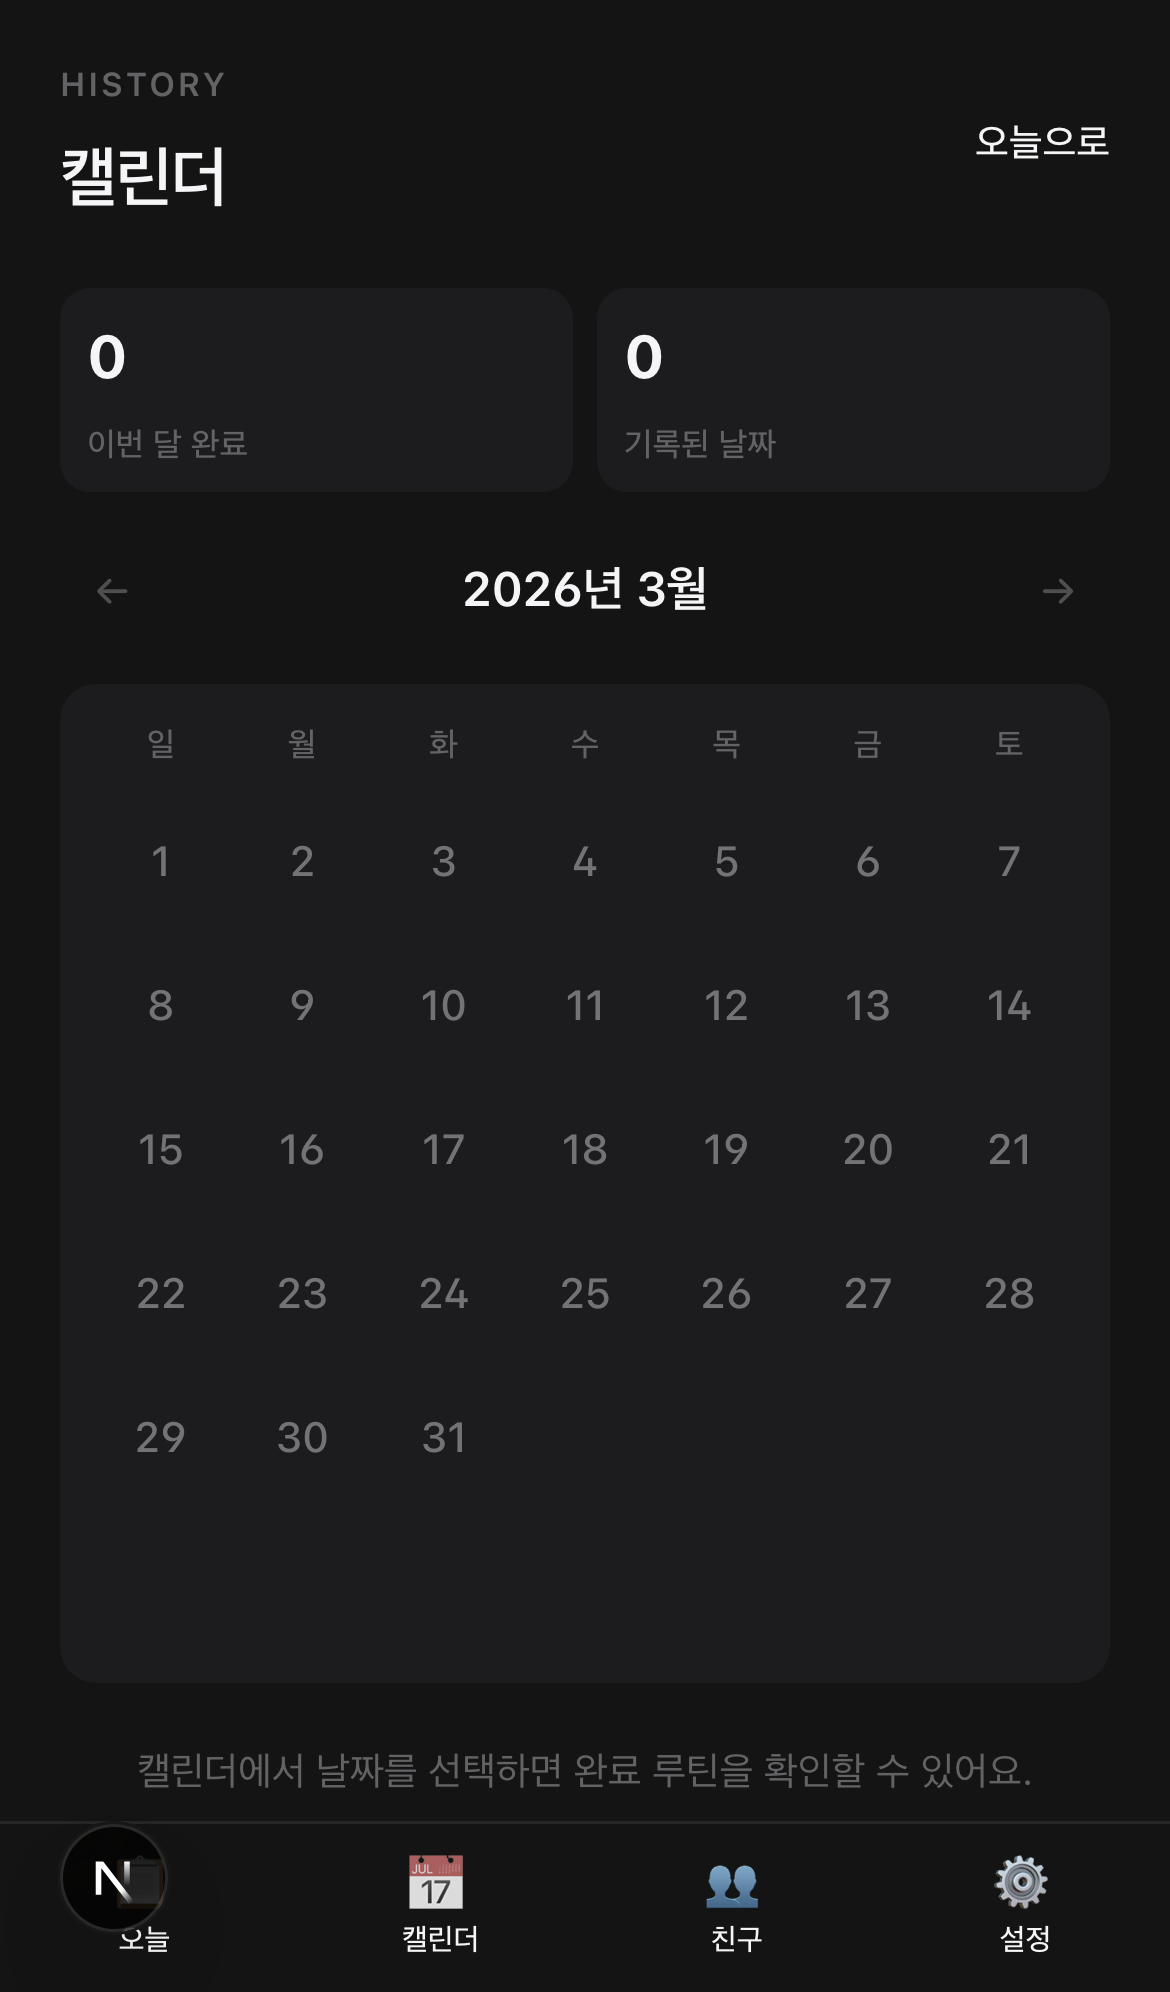
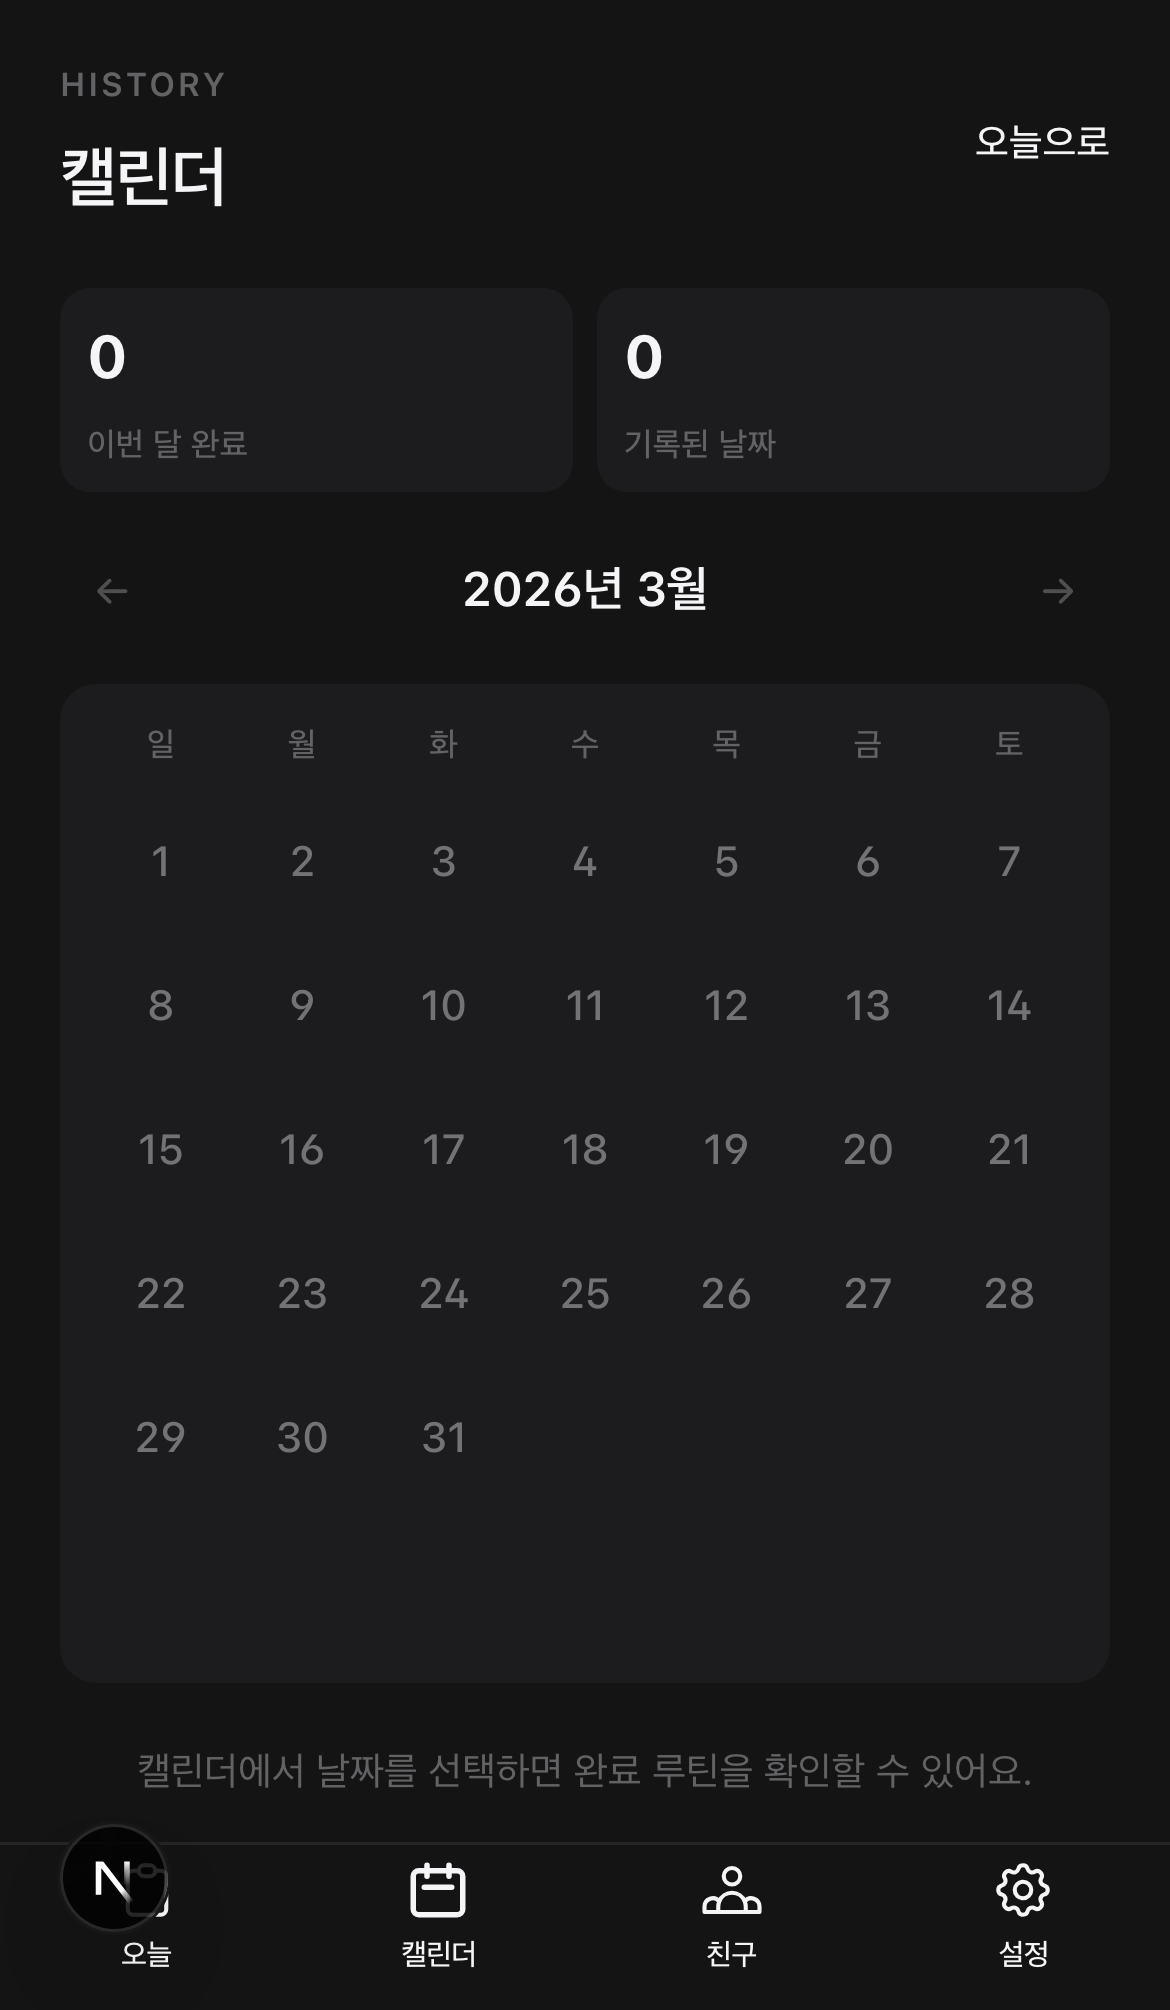
feat: 하단 네비 모던 디자인 + iOS/Android safe area 대응
- 이모지 아이콘 → SVG stroke 아이콘으로 변경
- 활성 탭: 굵은 stroke(2px), 비활성: 얇은 stroke(1.5px)
- iOS glass blur 효과 (backdrop-filter)
- env(safe-area-inset-bottom) 대응 — iPhone 홈 인디케이터 영역
- viewport-fit: cover 추가 (safe area 인식에 필수)
- PageShell 하단 패딩을 네비 높이 + safe area로 조정

diff --git a/apps/web/src/components/bottom-nav.tsx b/apps/web/src/components/bottom-nav.tsx
@@ -4,39 +4,95 @@ import Link from 'next/link';
 import { usePathname } from 'next/navigation';
 
 const NAV_ITEMS = [
-  { href: '/today', label: '오늘', icon: '📋' },
-  { href: '/calendar', label: '캘린더', icon: '📅' },
-  { href: '/friends', label: '친구', icon: '👥' },
-  { href: '/settings', label: '설정', icon: '⚙' },
+  { href: '/today', label: '오늘', icon: TodayIcon },
+  { href: '/calendar', label: '캘린더', icon: CalendarIcon },
+  { href: '/friends', label: '친구', icon: FriendsIcon },
+  { href: '/settings', label: '설정', icon: SettingsIcon },
 ] as const;
 
 export function BottomNav() {
   const pathname = usePathname();
 
-  // auth 페이지와 루트에서는 숨김
   if (pathname === '/auth' || pathname === '/') return null;
 
   return (
-    <nav className="fixed bottom-0 left-0 right-0 z-20 bg-ds-bg border-t border-ds-border">
-      <div className="max-w-[420px] mx-auto flex justify-around items-center h-[56px]">
+    <nav
+      className="fixed bottom-0 left-0 right-0 z-20"
+      style={{
+        paddingBottom: 'env(safe-area-inset-bottom, 0px)',
+        background: 'var(--ds-color-bg)',
+      }}
+    >
+      {/* Glass blur border */}
+      <div
+        className="absolute inset-0 border-t border-ds-border"
+        style={{
+          background: 'color-mix(in srgb, var(--ds-color-bg) 80%, transparent)',
+          backdropFilter: 'saturate(180%) blur(20px)',
+          WebkitBackdropFilter: 'saturate(180%) blur(20px)',
+        }}
+      />
+
+      <div className="relative max-w-[420px] mx-auto flex justify-around items-center h-[50px]">
         {NAV_ITEMS.map((item) => {
           const isActive = pathname === item.href;
+          const Icon = item.icon;
           return (
             <Link
               key={item.href}
               href={item.href}
               className={`
-                flex flex-col items-center gap-[2px] no-underline
-                transition-colors duration-150
-                ${isActive ? 'text-ds-accent' : 'text-ds-text-faint'}
+                flex flex-col items-center gap-[3px] no-underline
+                transition-all duration-200 ease-out
+                w-[64px] py-[6px] rounded-ds-md
+                ${isActive
+                  ? 'text-ds-accent'
+                  : 'text-ds-text-faint'
+                }
               `}
             >
-              <span className="text-[18px] leading-none">{item.icon}</span>
-              <span className="text-[10px] font-medium">{item.label}</span>
+              <Icon active={isActive} />
+              <span className="text-[10px] font-medium tracking-tight">{item.label}</span>
             </Link>
           );
         })}
       </div>
     </nav>
+  );
+}
+
+/* --- SVG Icons (24x24, stroke-based, modern) --- */
+
+function TodayIcon({ active }: { active: boolean }) {
+  return (
+    <svg width="22" height="22" viewBox="0 0 24 24" fill="none" strokeWidth={active ? 2 : 1.5} stroke="currentColor">
+      <path strokeLinecap="round" strokeLinejoin="round" d="M9 5H7a2 2 0 00-2 2v12a2 2 0 002 2h10a2 2 0 002-2V7a2 2 0 00-2-2h-2M9 5a2 2 0 002 2h2a2 2 0 002-2M9 5a2 2 0 012-2h2a2 2 0 012 2" />
+      {active && <path strokeLinecap="round" strokeLinejoin="round" d="M9 14l2 2 4-4" />}
+    </svg>
+  );
+}
+
+function CalendarIcon({ active }: { active: boolean }) {
+  return (
+    <svg width="22" height="22" viewBox="0 0 24 24" fill="none" strokeWidth={active ? 2 : 1.5} stroke="currentColor">
+      <path strokeLinecap="round" strokeLinejoin="round" d="M8 7V3m8 4V3m-9 8h10M5 21h14a2 2 0 002-2V7a2 2 0 00-2-2H5a2 2 0 00-2 2v12a2 2 0 002 2z" />
+    </svg>
+  );
+}
+
+function FriendsIcon({ active }: { active: boolean }) {
+  return (
+    <svg width="22" height="22" viewBox="0 0 24 24" fill="none" strokeWidth={active ? 2 : 1.5} stroke="currentColor">
+      <path strokeLinecap="round" strokeLinejoin="round" d="M17 20h5v-2a3 3 0 00-5.356-1.857M17 20H7m10 0v-2c0-.656-.126-1.283-.356-1.857M7 20H2v-2a3 3 0 015.356-1.857M7 20v-2c0-.656.126-1.283.356-1.857m0 0a5.002 5.002 0 019.288 0M15 7a3 3 0 11-6 0 3 3 0 016 0z" />
+    </svg>
+  );
+}
+
+function SettingsIcon({ active }: { active: boolean }) {
+  return (
+    <svg width="22" height="22" viewBox="0 0 24 24" fill="none" strokeWidth={active ? 2 : 1.5} stroke="currentColor">
+      <path strokeLinecap="round" strokeLinejoin="round" d="M10.325 4.317c.426-1.756 2.924-1.756 3.35 0a1.724 1.724 0 002.573 1.066c1.543-.94 3.31.826 2.37 2.37a1.724 1.724 0 001.066 2.573c1.756.426 1.756 2.924 0 3.35a1.724 1.724 0 00-1.066 2.573c.94 1.543-.826 3.31-2.37 2.37a1.724 1.724 0 00-2.573 1.066c-.426 1.756-2.924 1.756-3.35 0a1.724 1.724 0 00-2.573-1.066c-1.543.94-3.31-.826-2.37-2.37a1.724 1.724 0 00-1.066-2.573c-1.756-.426-1.756-2.924 0-3.35a1.724 1.724 0 001.066-2.573c-.94-1.543.826-3.31 2.37-2.37.996.608 2.296.07 2.572-1.065z" />
+      <path strokeLinecap="round" strokeLinejoin="round" d="M15 12a3 3 0 11-6 0 3 3 0 016 0z" />
+    </svg>
   );
 }

diff --git a/apps/web/src/components/ui/design-system.css b/apps/web/src/components/ui/design-system.css
@@ -100,7 +100,7 @@
   /* Semantic spacing — layout rhythm */
   --ds-space-page-x: 20px;
   --ds-space-page-top: 20px;
-  --ds-space-page-bottom: calc(48px + var(--ds-safe-bottom));
+  --ds-space-page-bottom: calc(70px + var(--ds-safe-bottom));
   --ds-space-section-gap: 20px;
   --ds-space-card-gap: 12px;
   --ds-space-card-x: 12px;
